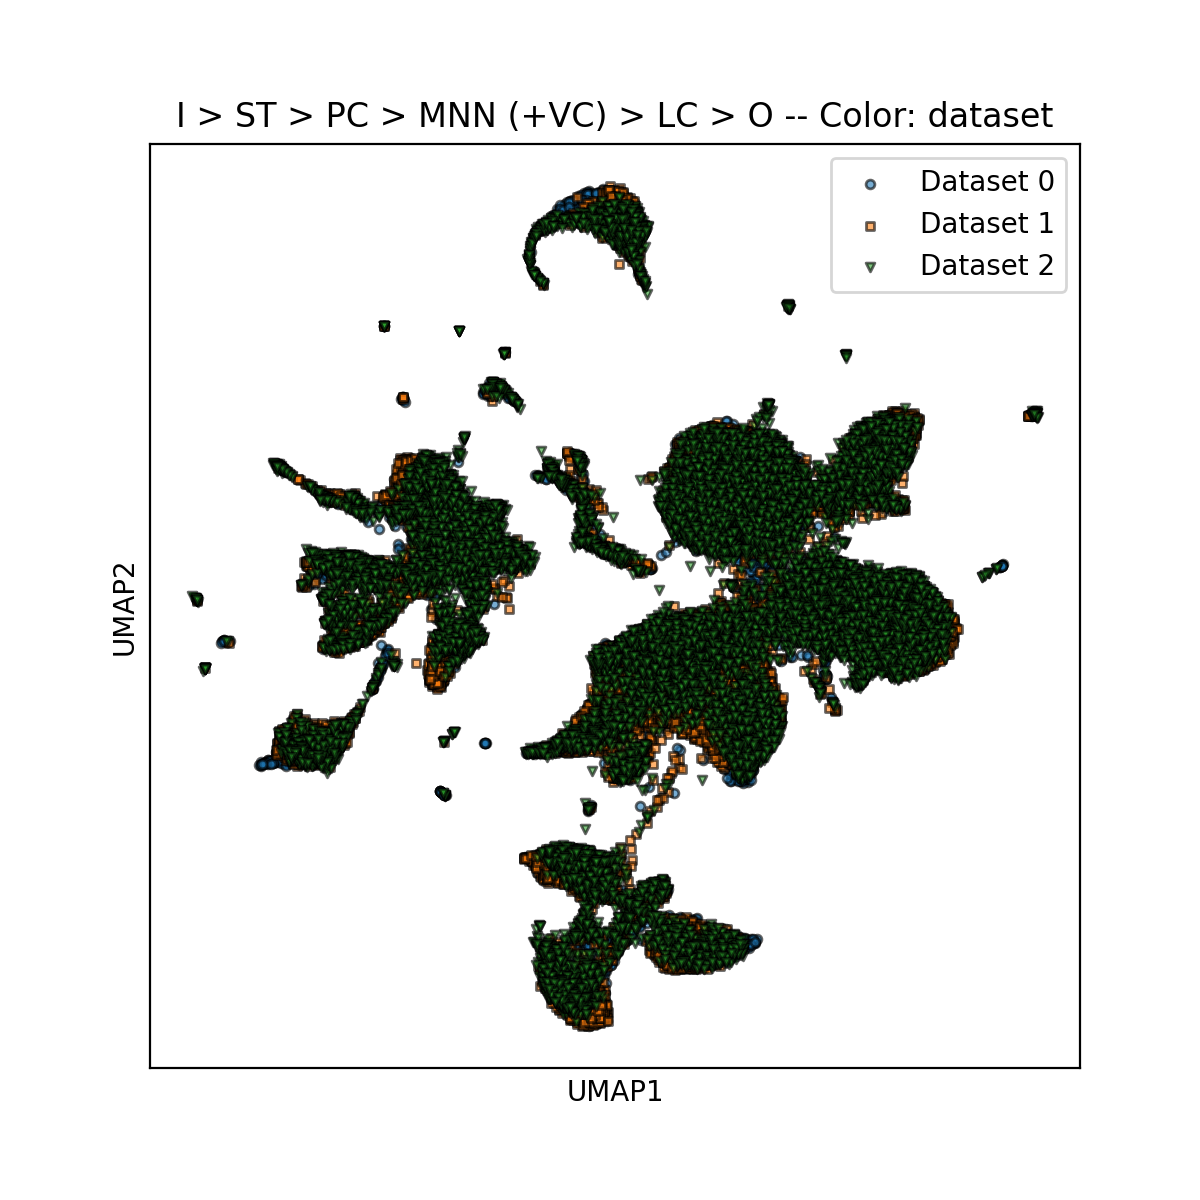
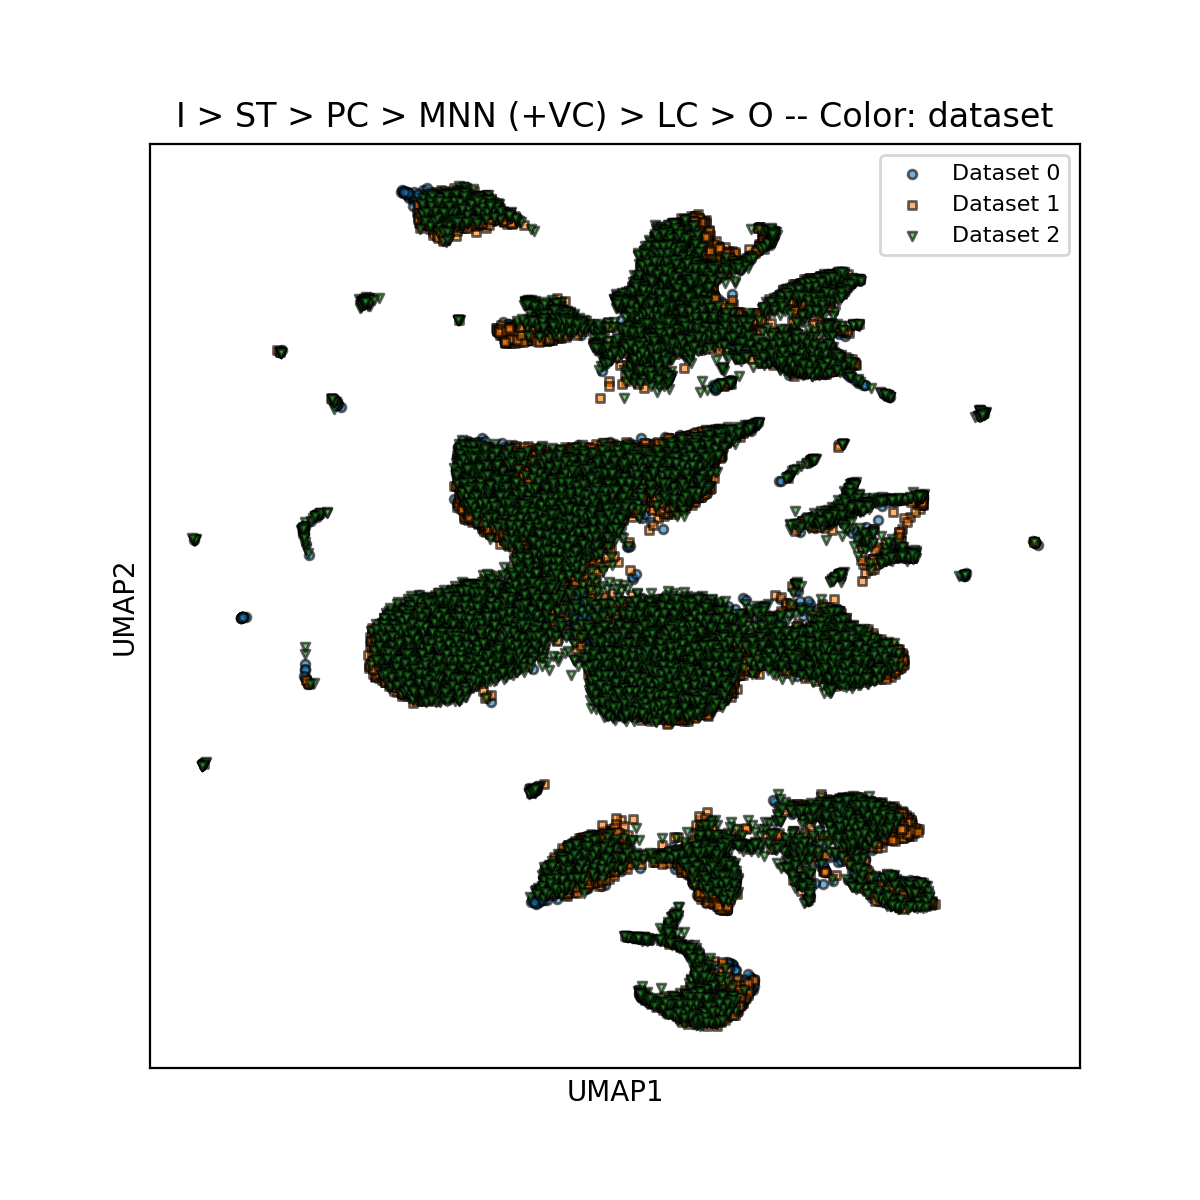
Docstring for plot_result

diff --git a/src/transmorph/utils/plotting.py b/src/transmorph/utils/plotting.py
@@ -22,7 +22,7 @@ def plot_result(
     datasets: List[AnnData],
     matching_mtx: Union[csr_matrix, None] = None,
     reducer: str = "umap",
-    use_cache: bool = True,
+    use_cache: bool = False,
     color_by: str = "__dataset__",
     palette: str = "rainbow",
     title: str = "",
@@ -30,11 +30,90 @@ def plot_result(
     ylabel: str = "",
     show: bool = True,
     save: bool = False,
+    extension: str = "png",
     caller_path: str = "",
     suffix: str = "__color_by__",
     dpi=200,
 ):
+    """
+    Advanced plotting function for transmorph results, handling parameters
+    guessing, representation cacheing, automatic dimensionality reduction,
+    continuous or linear labeling, figure saving.
+
+    IMPORTANT: If save=True, see parameter caller_path.
+
+    Parameters
+    ----------
+    datasets: List[AnnData]
+        List of datasets to display, represented as annotated data. If they
+        have been processed by transmorph, integrated embedding will be used.
+        Otherwise, AnnData.X is chosen as fallback representation (in this
+        case, all datasets must be embedded in the same space).
+
+    matching_mtx: csr_matrix, default = None
+        This option is only valid for two datasets. You can provide a boolean
+        or probabilistic matching between datasets represented as a sparse
+        matrix (CSR format), which will be displayed on the plot. Be careful,
+        for too large datasets this will slow down plotting and yield results
+        difficult to read.
+
+    reducer: str, default = "umap"
+        Algorithm to use if embedding dimensionality exceeds 2. Valid options
+        are "pca" for linear dimensionality reduction and "umap" for embedding
+        high dimensional datasets such as single-cell data.
+
+    use_cache: bool, default = True
+        If you produce several plots with different labelings of high dimensional
+        data, you want the low dimensional embedding to be the same among the
+        plots for easy comparison. In this case, use_cache=True will save in
+        AnnDatas objects their low-dimensional representation computed by the
+        method so that it is shared among all method calls.
+
+    color_by: str, default = "__dataset__"
+        Labeling colors to use in the figure. "__dataset__" will color each
+        point depending of its dataset of origin. Otherwise, all keys of
+        AnnData.obs are valid. The function will try to guess discrete- or
+        continuous-ness of the labels, and color accordingly.
+
+    palette: str, default = "rainbow"
+        Matplotlib colormap to pick colors from.
+
+    title: str, default = ""
+        Title of the plot.
+
+    xlabel: str, default = ""
+        Labeling of the x axis.
+
+    ylabel: str, default = ""
+        Labeling of the y axis.
+
+    show: bool, default = True
+        Call plt.show() at the end to display the figure in a separate
+        window.
+
+    save: bool, default = False
+        Save the plot in the same directory as the file calling the
+        functions, in a figures/ subdirectory (created if necessary).
+
+    extension: str, default = "png"
+        If save=True, valid image file extension to use.
+
+    caller_path:
+        If save=True, pass f"__file__" to indicate file location.
+
+    suffix: str = "__color_by__":
+        If save=True, suffix to append to the file name to differentiate
+        between image files of the same source. "__color_by__" will use
+        labels as suffix (e.g. "plot_cell_type.png")
+                                     ^^^^^^^^^
+
+    dpi: int, default = 200,
+        Dot per inch to use for the figure.
+    """
     # Checking parameters
+    assert all(
+        type(adata) is AnnData for adata in datasets
+    ), "All datasets must be AnnData."
     if matching_mtx is not None:
         assert len(datasets) == 2, "Drawing matching requires exactly two datasets."
         assert type(matching_mtx) is csr_matrix, "Matching must come as a csr_matrix."
@@ -131,7 +210,13 @@ def plot_result(
             plt.scatter([], [], marker=mk, s=40, c="k", label=f"Dataset {i}")
         if continuous:
             plt.scatter(
-                *X.T, c=adata.obs[color_by], alpha=alpha, marker=mk, ec="k", s=size
+                *X.T,
+                c=adata.obs[color_by],
+                alpha=alpha,
+                marker=mk,
+                ec="k",
+                s=size,
+                cmap=palette,
             )
         else:
             for k, label in enumerate(all_labels):
@@ -164,7 +249,9 @@ def plot_result(
     # Reordering legend
     handles, labels = plt.gca().get_legend_handles_labels()
     order = np.argsort(labels)
-    plt.legend([handles[idx] for idx in order], [labels[idx] for idx in order])
+    plt.legend(
+        [handles[idx] for idx in order], [labels[idx] for idx in order], fontsize=8
+    )
 
     # Adding text pieces
     plt.xlabel(xlabel)
@@ -185,7 +272,7 @@ def plot_result(
             suffix = color_by
         if suffix != "":
             suffix = "_" + suffix
-        plt.savefig(save_path + f"{fname}{suffix}.png")
+        plt.savefig(save_path + f"{fname}{suffix}.{extension}")
     if show:
         plt.show()
     plt.close()
